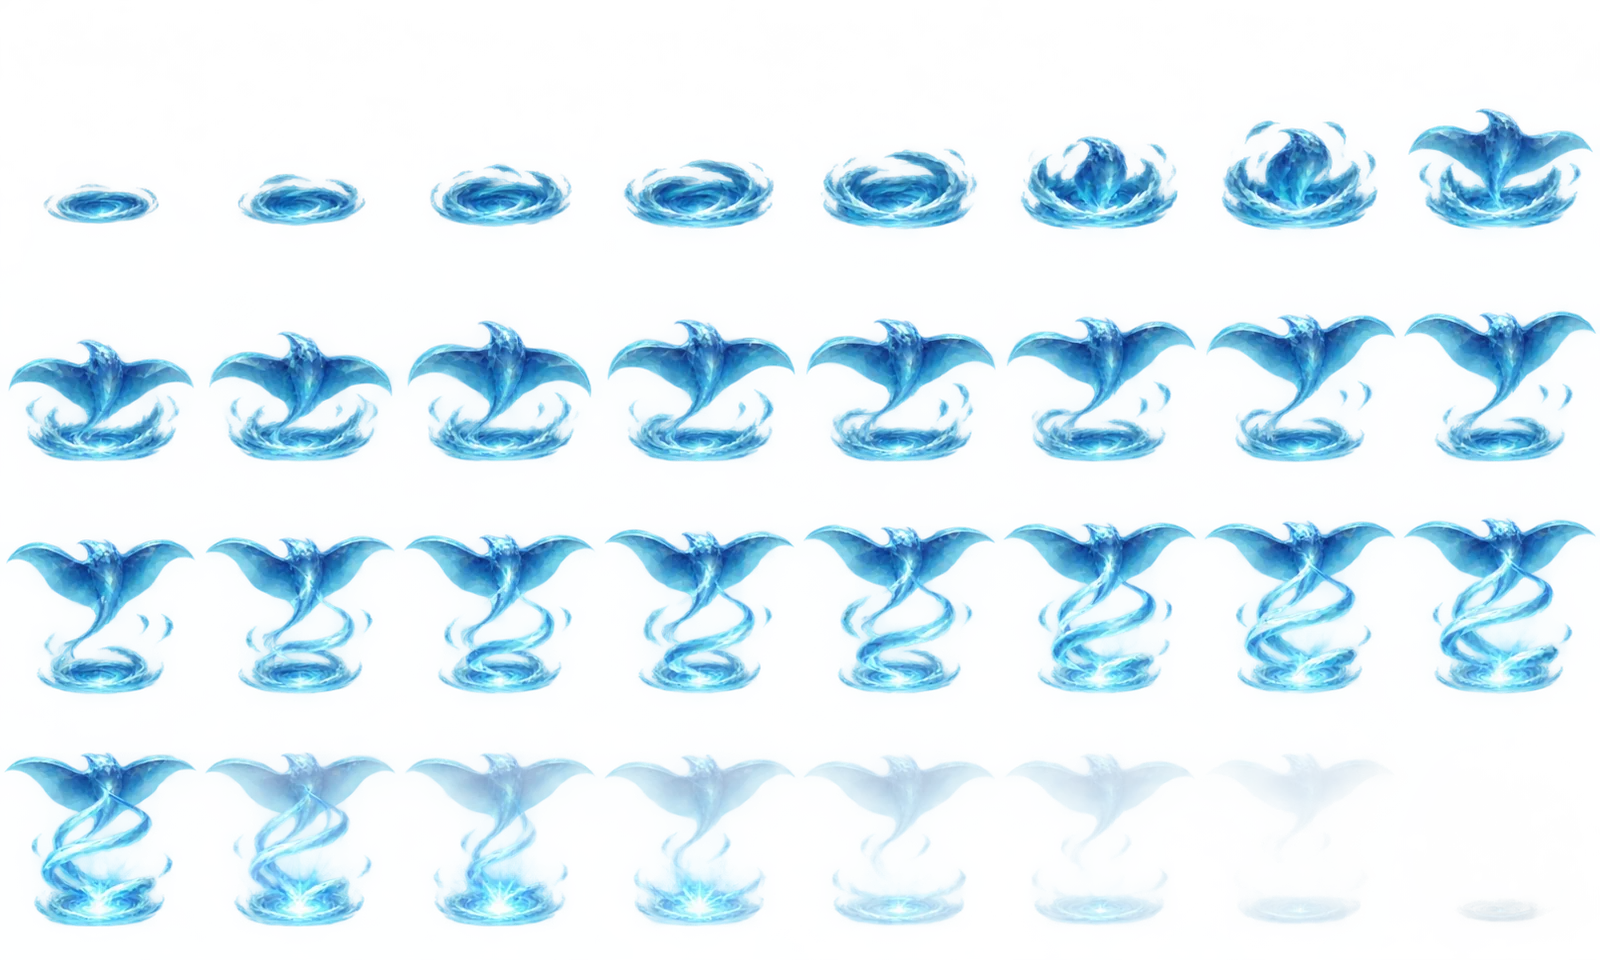
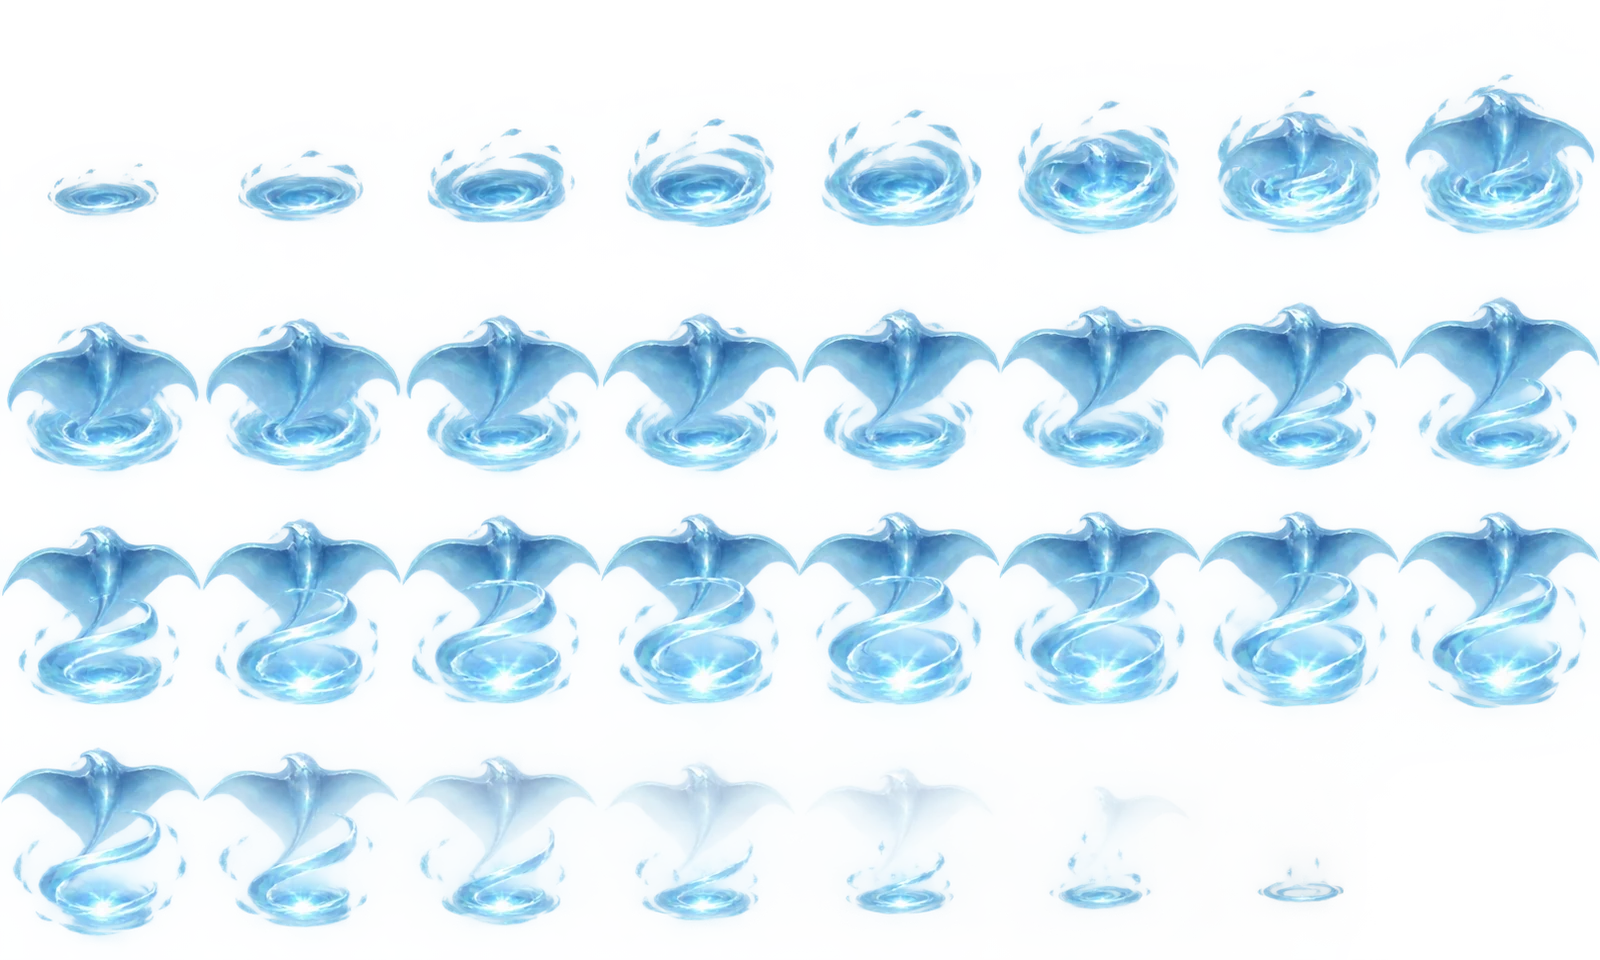
Layer Tidal Exchange manta behind target and water in front; faster animation v0.355.14

diff --git a/arena.js b/arena.js
@@ -275,7 +275,7 @@
   const TEST_SHORT_CIRCUIT={id:"shortcircuit",name:"Short Circuit",school:"lightning",cost:4,target:"enemy",kind:"shortcircuit",damage:350,manaDamage:10,maxManaBonus:150,accuracy:.85,icon:"ϟ",rarity:"TEST",testOnly:true,duration:4800,hit:.68,description:"A low-poly electrical automaton channels electricity into one enemy, overloading their mana. Hits for 350 base damage, then adds 10 damage per mana the enemy had at first impact, up to 15 mana (+150 maximum bonus)."};
   const TEST_THUNDER_MINE={id:"thundermine",name:"Thunder Mine",school:"lightning",cost:4,target:"enemy",kind:"thundermine",damage:200,mineDamage:300,mineTurns:3,accuracy:.90,icon:"ϟ",rarity:"TEST",testOnly:true,duration:4000,hit:.78,description:"A mechanical mine leaps onto one enemy for 200 base damage and attaches a negative rune for 3 rounds. After their next successful damaging spell, the mine explodes for 300 additional damage and disappears. Cleansing or expiration removes it harmlessly."};
   const TEST_TECTONIC_CRUSH={id:"tectoniccrush",name:"Tectonic Crush",school:"earth",cost:6,target:"enemy",kind:"damage",damage:780,accuracy:.85,boulderChance:.25,icon:"◆",rarity:"TEST",testOnly:true,duration:4320,hit:28/48,description:"Two massive jagged rock formations erupt on either side of one enemy and crush them between their stone faces for 780 base Earth damage. A damaging hit has a 25% chance to inflict Boulder Weight (−30 accuracy points for 3 turns)."};
-  const TEST_TIDAL_EXCHANGE={id:"tidalexchange",name:"Tidal Exchange",school:"water",cost:3,target:"ally",kind:"tidalexchange",manaRestore:4,accuracy:.90,icon:"♆",rarity:"TEST",testOnly:true,duration:4200,hit:.72,description:"A crystalline manta ray rises from a whirlpool and channels spiraling water into yourself or a living ally, restoring up to 4 mana without exceeding their maximum."};
+  const TEST_TIDAL_EXCHANGE={id:"tidalexchange",name:"Tidal Exchange",school:"water",cost:3,target:"ally",kind:"tidalexchange",manaRestore:4,accuracy:.90,icon:"♆",rarity:"TEST",testOnly:true,duration:3500,hit:.72,description:"A crystalline manta ray rises from a whirlpool and channels spiraling water into yourself or a living ally, restoring up to 4 mana without exceeding their maximum."};
   const TEST_UNDERTOW={id:"undertow",name:"Undertow",school:"water",cost:4,target:"enemy",kind:"undertow",damage:300,manaTax:2,accuracy:.85,icon:"♆",rarity:"TEST",testOnly:true,duration:3400,hit:.625,description:"Two giant water hands rise from a whirlpool and pull one enemy downward for 300 base Water damage. Applies a non-stacking Undertow rune: the next successful spell costs 2 additional mana. Passes, misses and unaffordable spells preserve it."};
   const TEST_HYDRO_SERPENT={id:"hydroserpent",name:"Hydro Serpent",school:"water",cost:6,target:"all_enemies",kind:"hydroserpent",damage:430,accuracy:.85,icon:"♆",rarity:"TEST",testOnly:true,duration:4800,hit:.72,description:"A massive water serpent rises from a whirlpool, charges a water blast and launches it into the sky above the enemy team. Fires one water blast into the sky per living enemy, then showers every enemy with sharp rain pellets for 430 base Water damage plus 75 per additional blast."};
   const TEST_JELLYSHOCK={id:"jellyshock",name:"Jellyshock",school:"water",cost:3,target:"enemy",kind:"damage",damage:280,stunChance:.15,accuracy:.85,icon:"♆",rarity:"TEST",testOnly:true,duration:4800,hit:.62,description:"A bioluminescent jellyfish lashes one enemy with charged tentacles for 280 base Water damage, with a 15% chance to Stun for one action."};
@@ -6479,7 +6479,7 @@
     }
     if(state.mode==="tester"&&action?.stage==="summon"&&action.card.id==="tidalexchange"&&window.TidalExchange){
       const target=getUnit(action.target);
-      if(target){const s=window.TidalExchange.scene(target,clamp(action.elapsed/action.duration,0,1),unitEffectFactor(target));renderables.push({type:"tidal-exchange",depthY:target.y+.18,priority:2,draw:()=>window.TidalExchange.draw(g,s)});}
+      if(target){const s=window.TidalExchange.scene(target,clamp(action.elapsed/action.duration,0,1),unitEffectFactor(target));renderables.push({type:"tidal-exchange-back",depthY:target.y-.16,priority:0,draw:()=>window.TidalExchange.back(g,s)});renderables.push({type:"tidal-exchange-front",depthY:target.y+.20,priority:2,draw:()=>window.TidalExchange.front(g,s)});}
     }
     if(state.mode==="tester"&&action?.stage==="summon"&&action.card.id==="undertow"&&window.Undertow){
       const target=getUnit(action.target);

diff --git a/assets/tidal-exchange.js b/assets/tidal-exchange.js
@@ -1,14 +1,21 @@
-/* Tidal Exchange: 32 illustrated transparent manta ray frames. */
+/* Tidal Exchange v0.355.14: illustrated 32-frame manta behind target, foreground water swirl. */
 (()=>{
 "use strict";
 const W=200,H=240,C=p=>Math.max(0,Math.min(1,p)),image=new Image();
 let pending=null;
 const ready=()=>image.complete&&image.naturalWidth===1600&&image.naturalHeight===960;
 function ensure(){if(ready())return Promise.resolve(true);if(pending)return pending;
- pending=new Promise(resolve=>{image.onload=()=>resolve(ready());image.onerror=()=>resolve(false);image.src="./assets/tidal-exchange-32.webp?v=0.355.13";}).then(ok=>{if(ok)window.WIZARDRY_ARENA_TEST?.drawCardArts?.();return ok;}).finally(()=>pending=null);return pending;}
-function scene(target,p,factor=1){p=C(p);return{x:target.x,y:target.y+8,p,n:Math.min(31,Math.floor(p*32)),k:Math.max(.85,Math.min(2.5,factor))*1.45,alpha:Math.min(1,p/.025,(1-p)/.06)};}
-function tile(g,n,x,y,w,h){g.drawImage(image,n%8*W,Math.floor(n/8)*H,W,H,x,y,w,h);}
-function draw(g,s){if(!ready()||s.alpha<=0)return;g.save();g.globalAlpha*=s.alpha;g.imageSmoothingEnabled=true;g.imageSmoothingQuality="high";tile(g,s.n,s.x-W*s.k/2,s.y-222*s.k,W*s.k,H*s.k);g.restore();}
-function portrait(g,w,h){if(!ready())return;const k=Math.min(w/W,h/210);tile(g,19,(w-W*k)/2,h-224*k,W*k,H*k);}
-window.TidalExchange={ensure,ready,scene,draw,portrait,hit:.72,frameCount:32};ensure();
+ pending=new Promise(resolve=>{image.onload=()=>resolve(ready());image.onerror=()=>resolve(false);image.src="./assets/tidal-exchange-32.webp?v=0.355.14";}).then(ok=>{if(ok)window.WIZARDRY_ARENA_TEST?.drawCardArts?.();return ok;}).finally(()=>pending=null);return pending;}
+function scene(target,p,factor=1){p=C(p);return{x:target.x,y:target.y+8,p,n:Math.min(31,Math.floor(p*32)),k:Math.max(.75,Math.min(2.4,factor))*1.14,alpha:Math.min(1,p/.03,(1-p)/.08)};}
+function drawFrame(g,n,sx,sy,sw,sh,dx,dy,dw,dh){g.drawImage(image,n%8*W+sx,Math.floor(n/8)*H+sy,sw,sh,dx,dy,dw,dh);}
+function back(g,s){if(!ready()||s.alpha<=0)return;
+ const dw=W*s.k,dh=H*s.k*.92,dx=s.x-dw/2,dy=s.y-dh*.86;
+ g.save();g.globalAlpha*=s.alpha;g.imageSmoothingEnabled=true;g.imageSmoothingQuality="high";
+ drawFrame(g,s.n,0,0,W,150,dx,dy,dw,dh*150/H);g.restore();}
+function front(g,s){if(!ready()||s.alpha<=0)return;
+ const dw=W*s.k,dh=H*s.k*.92,dx=s.x-dw/2,dy=s.y-dh*.86;
+ g.save();g.globalAlpha*=Math.min(1,s.alpha*1.08);g.imageSmoothingEnabled=true;g.imageSmoothingQuality="high";
+ drawFrame(g,s.n,0,118,W,122,dx,dy+dh*118/H,dw,dh*122/H);g.restore();}
+function portrait(g,w,h){if(!ready())return;const k=Math.min(w/W,h/185);drawFrame(g,18,0,0,W,H,(w-W*k)/2,h-214*k,W*k,H*k);}
+window.TidalExchange={ensure,ready,scene,back,front,portrait,hit:.72,frameCount:32};ensure();
 })();

diff --git a/arena.html b/arena.html
@@ -159,7 +159,7 @@ body[data-screen="home"][data-portal-view="home"] #portal{padding-bottom:calc(42
 </head>
 <body data-screen="home">
 <section id="portal" aria-label="Wizardry home"></section>
-<div id="mainMenuVersion" aria-label="Game version 0.355.13">v0.355.13</div>
+<div id="mainMenuVersion" aria-label="Game version 0.355.14">v0.355.14</div>
 <main class="game" id="game">
   <header class="mast">
     <div class="brand">
@@ -490,14 +490,14 @@ body[data-screen="home"][data-portal-view="home"] #portal{padding-bottom:calc(42
 <script src="./assets/guardian-roots.js?v=4" defer></script>
 <script src="./assets/crystal-cavern.js?v=0.354.93" defer></script>
 <script src="./assets/quicksilver.js?v=0.354.93" defer></script>
-<script src="./assets/tidal-exchange.js?v=0.355.13" defer></script>
-<script src="./assets/undertow.js?v=0.355.13" defer></script>
-<script src="./assets/hydro-serpent.js?v=0.355.13" defer></script>
+<script src="./assets/tidal-exchange.js?v=0.355.14" defer></script>
+<script src="./assets/undertow.js?v=0.355.14" defer></script>
+<script src="./assets/hydro-serpent.js?v=0.355.14" defer></script>
 <script src="./assets/jellyshock.js?v=0.354.93" defer></script>
 <script src="./assets/fountain-youth.js?v=0.354.93" defer></script>
 <script src="./assets/hydro-cannon.js?v=0.354.93" defer></script>
 <script src="./assets/tectonic-crush.js?v=0.354.93" defer></script>
-<script src="./arena.js?v=0.355.13" defer></script>
+<script src="./arena.js?v=0.355.14" defer></script>
 <script src="./assets/menu-music.js?v=0.341.0" defer></script>
 <script src="./assets/wizard-home-v135.js?v=0.346.0" defer></script>
 <script src="./assets/audio-settings.js?v=0.341.0" defer></script>
